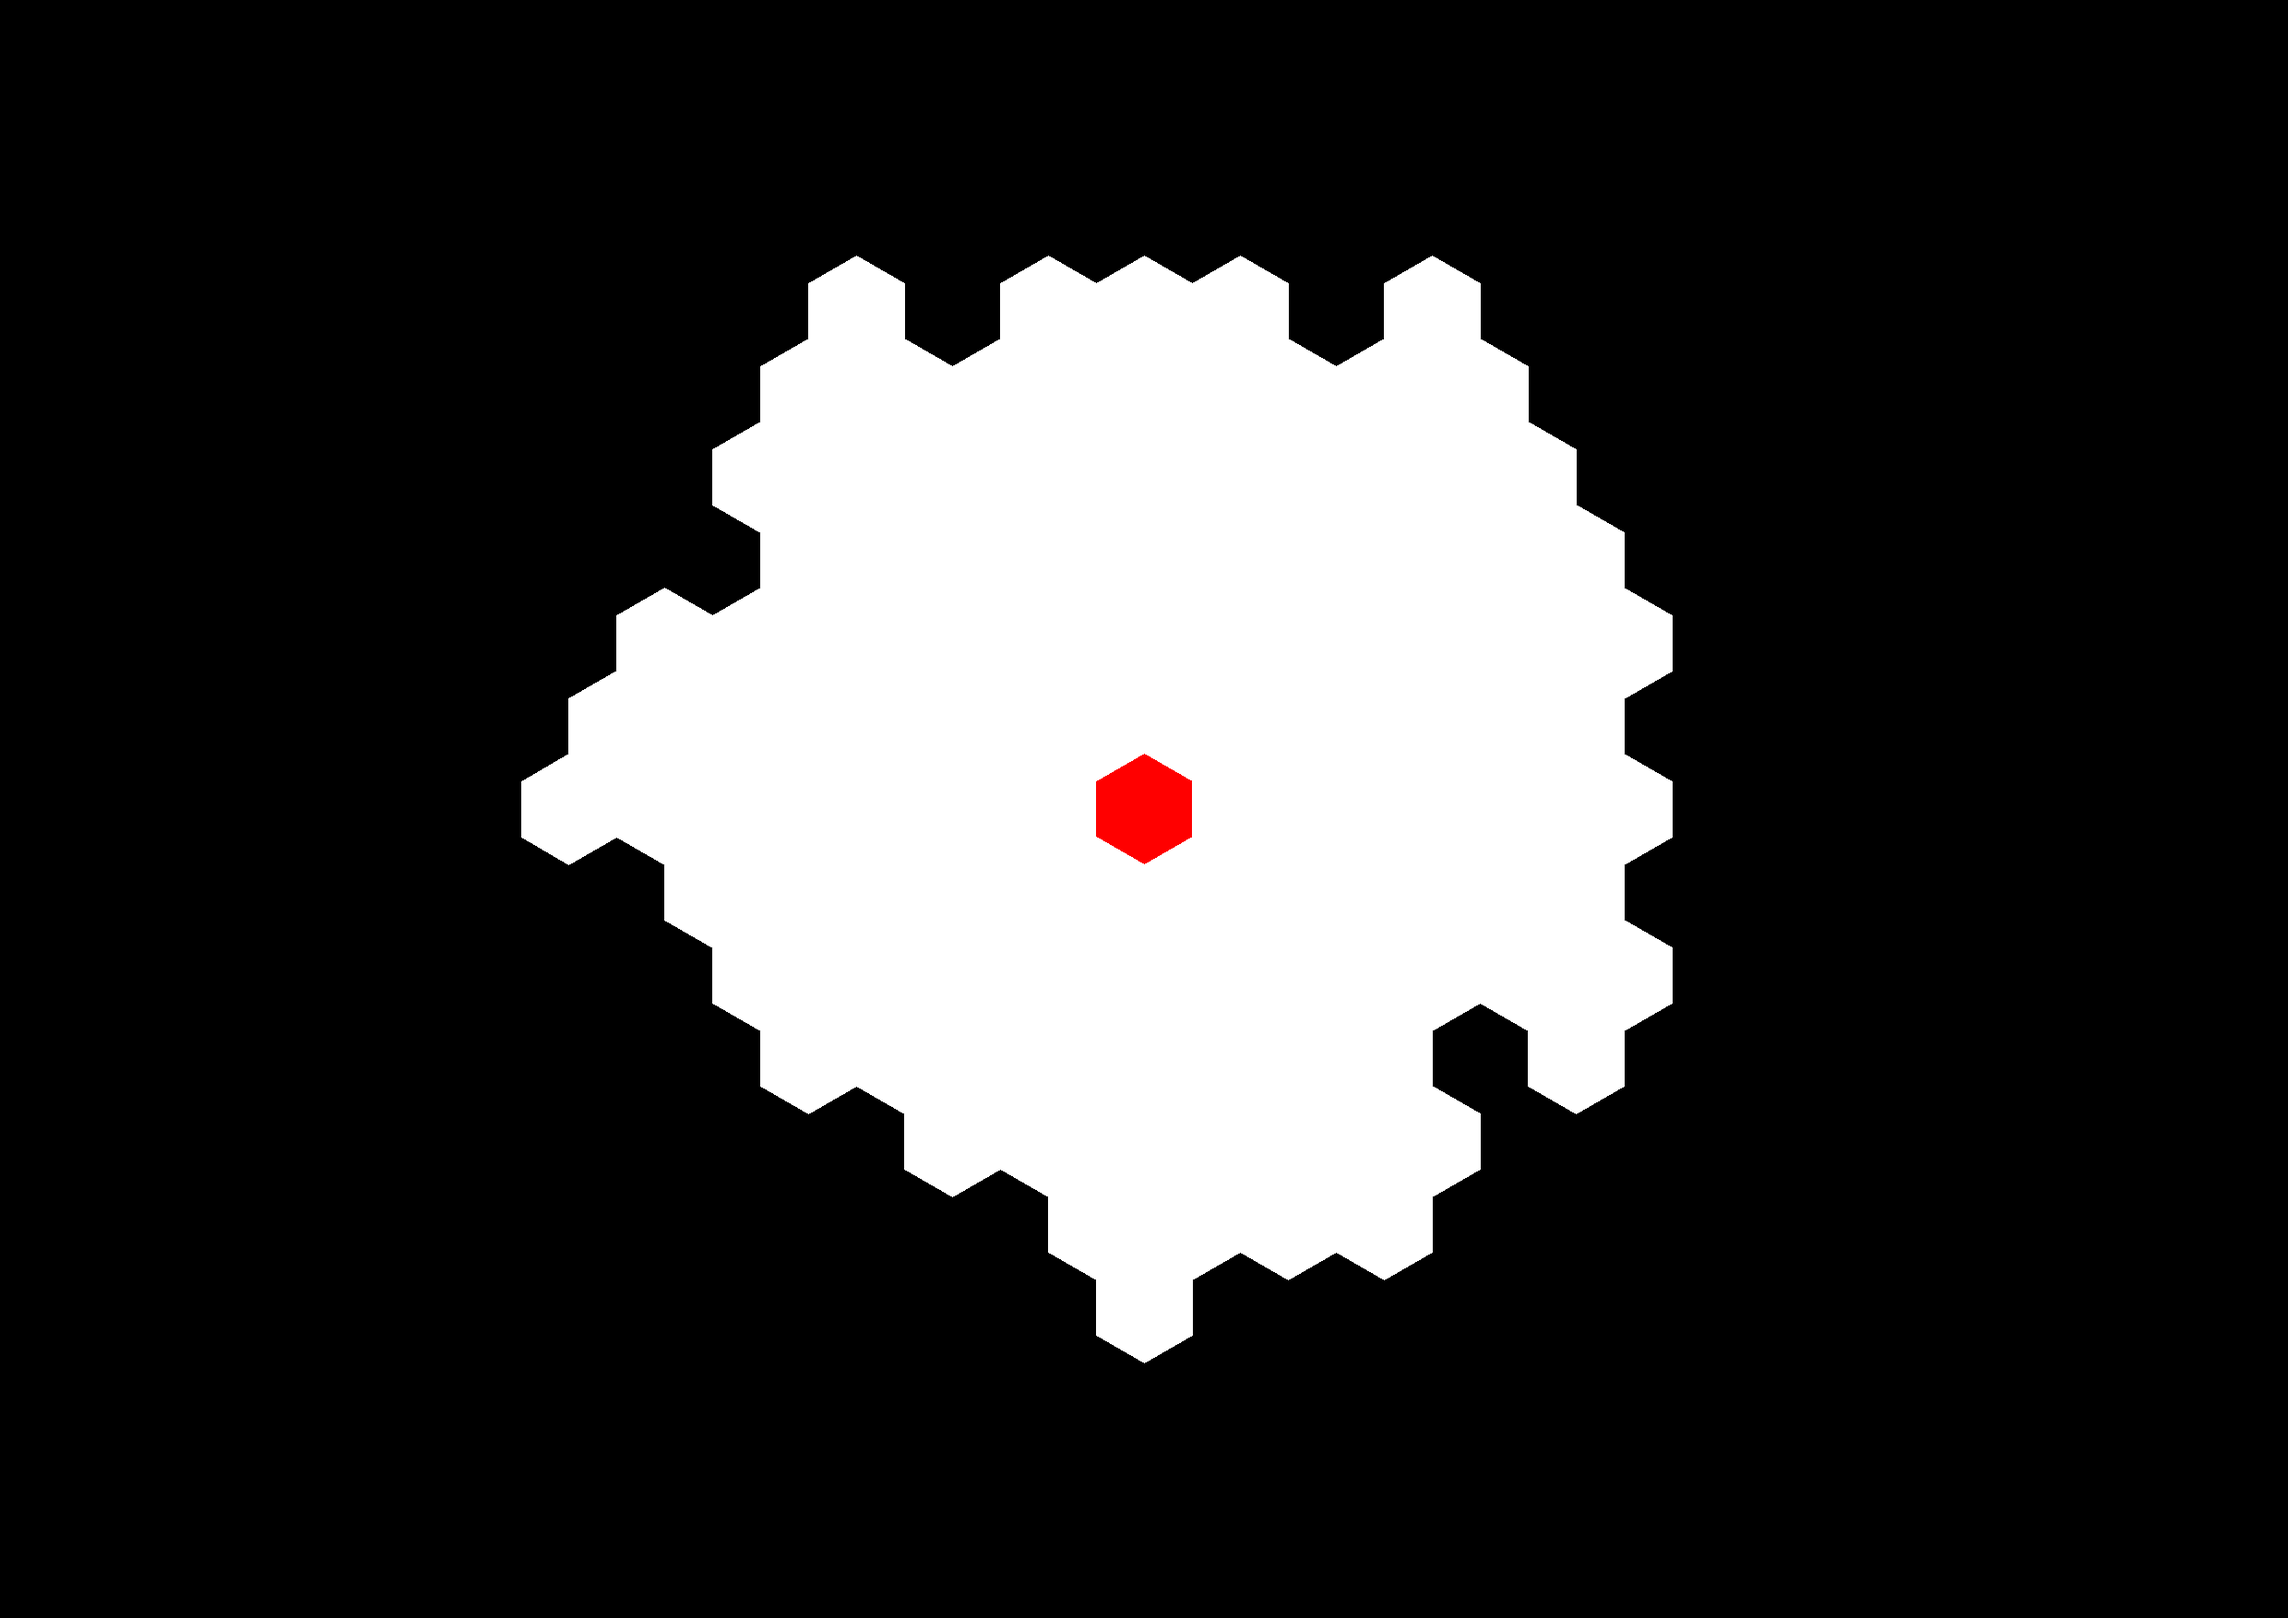
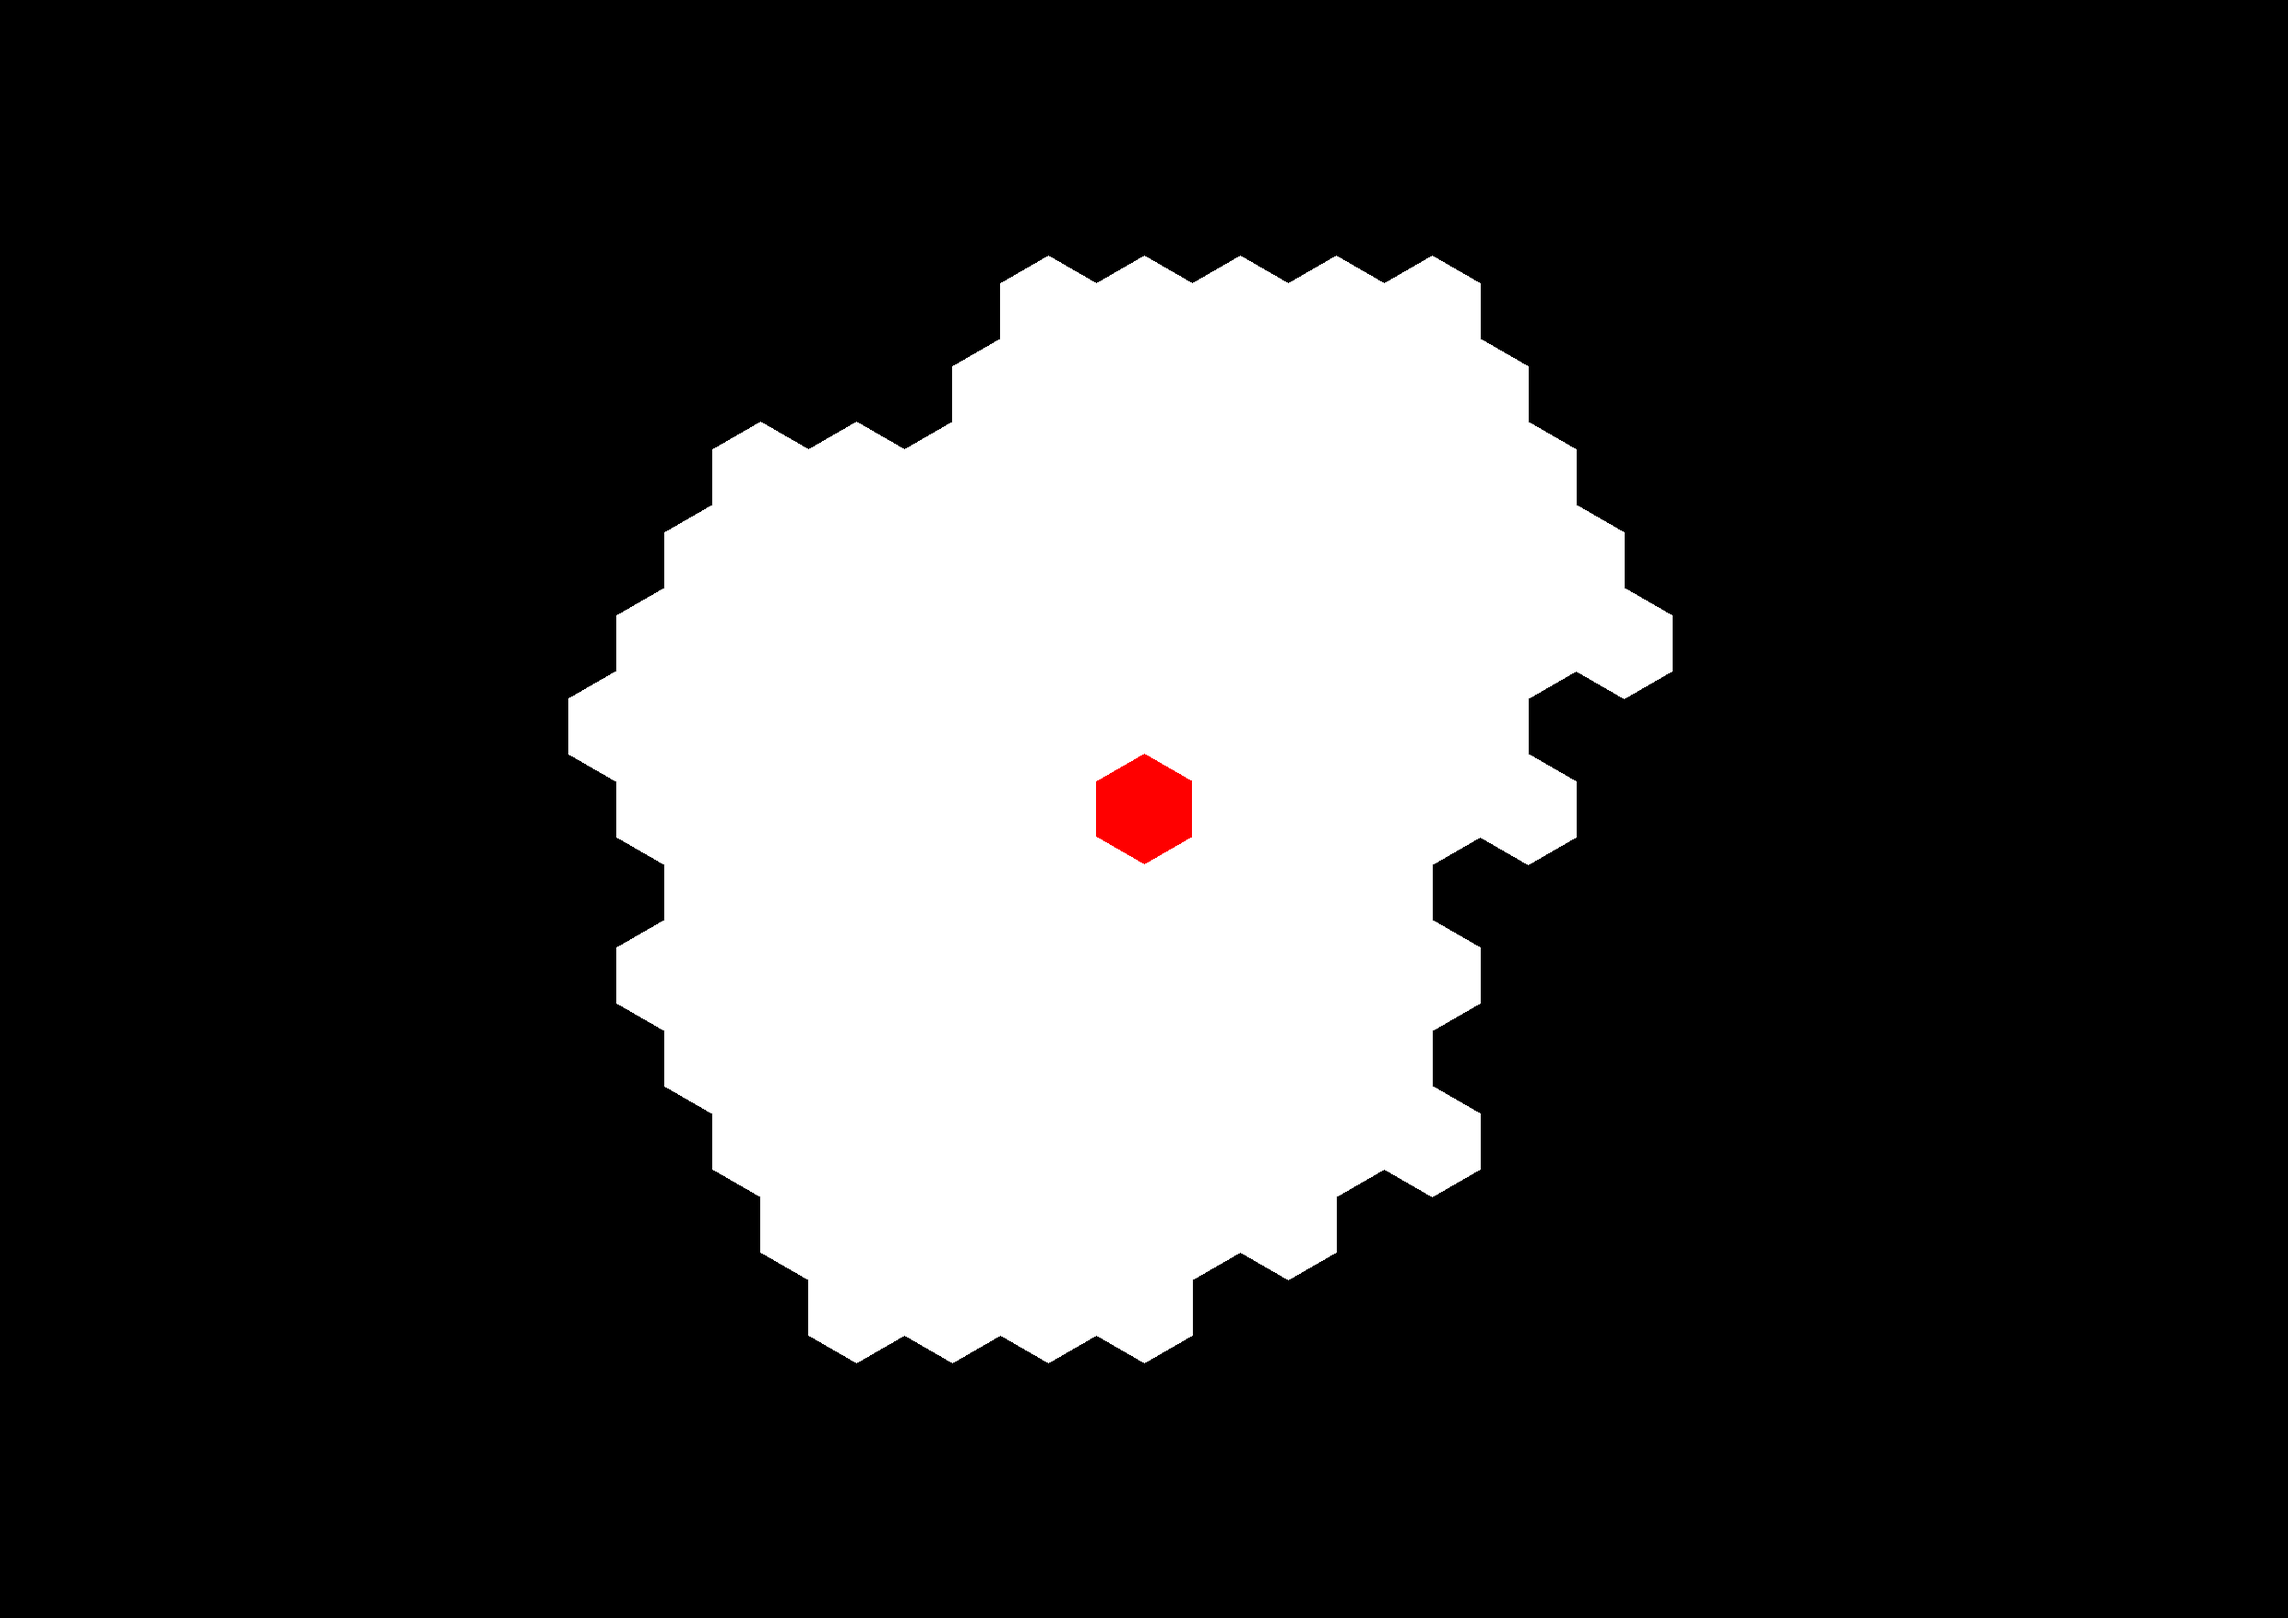
artifacts have correct tile types

diff --git a/src/hexmap.rs b/src/hexmap.rs
@@ -266,10 +266,12 @@ pub struct TileMap_templates {
 impl TileMap_templates {
 
     pub fn new<R: Rng>(rng: &mut R, shape: &TileMap_shape, props: &TileMap_props) -> Result<Self> {
+        assert_eq!(shape.size, props.size, "Both sub-mapes must be same size");
+
         let mut tiles = Self::prepare_random_tiles(rng, shape.size);
         // println!("{}", from.iter().filter(|(_, a)| **a).count());
 
-        let out = Self { map: HexagonalMap::new(
+        let mut out = Self { map: HexagonalMap::new(
             Hex::ZERO, 
             match_size!(shape.size, HEXMAP_RADIUS_BIG, HEXMAP_RADIUS_SMALL), 
             |h| if shape[h] {
@@ -279,6 +281,9 @@ impl TileMap_templates {
                 None
             }
         ), size: shape.size };
+        drop(tiles); // we no longer need that iterator, but we do need rng from it
+
+        out.fix_tiles_on_artifacts(rng, props)?;
         Ok(out)
     }
 
@@ -291,6 +296,76 @@ impl TileMap_templates {
     #[must_use]
     pub fn size_u32(&self) -> u32 {
         self.size as u32
+    }
+
+    fn fix_tiles_on_artifacts<R: Rng>(&mut self, rng: &mut R, props: &TileMap_props) -> Result<()>{
+        
+        fn needs_a_switch(template: Option<TileTemplate>, prop: PropOption) -> bool {
+            if matches!(prop, PropOption::Some(Prop::Village(_))) {
+                return false;
+            }
+
+            if template.is_some() && prop.has_prop() {
+                let template = template.unwrap();
+                let prop = prop.unwrap().unwrap();
+                if prop.get_template() != template {
+                    // println!("replace {prop:?} {template}");
+                    return true;
+                }
+                else {
+                    // println!("don't replace {prop:?} {template}");
+                    return false;
+                }
+            }
+            else if !prop.has_prop() {
+                return false;
+            }
+            else {
+                panic!("prop on empty tile, {prop:?}")
+            }
+        }
+
+        fn first_tile_of_template(template_map: &TileMap_templates, tiles: &mut Vec<Hex>, template: TileTemplate) -> Result<Hex> {
+            for (i, hex) in tiles.iter().enumerate() {
+                if template_map[*hex].is_some() && template_map[*hex].unwrap() == template {
+                    let hex = *hex;
+                    tiles.remove(i);
+                    return Ok(hex);
+                }
+            }
+            Err(format!("did not find template {template:?}"))
+        }
+
+        let mut tiles_no_artifacts: Vec<Hex> = props
+        .iter()
+        .filter_map(|(h, p)| 
+            if let PropOption::NotAllowed = p {
+                Some(h)
+            } 
+            else {
+                None
+            }
+        )
+        .collect();
+        let mut free_tiles = Vec::new(); // tiles we got from removing tiles under artifacts
+        let mut removed_tiles = Vec::new(); // tiles from where we removed tiles
+
+        for ((hex, template), (_, prop)) in Iterator::zip(self.clone().iter(), props.iter()) {
+            if needs_a_switch(*template, *prop) {
+                let target_template = prop.unwrap().unwrap().get_template(); // what prop wants
+                let removed_hex = first_tile_of_template(&self, &mut tiles_no_artifacts, target_template)?;
+                self[hex] = Some(target_template);
+                free_tiles.push(template.unwrap());
+                removed_tiles.push(removed_hex);
+            }
+        };
+
+        free_tiles.shuffle(rng);
+        for hex in removed_tiles {
+            self[hex] = free_tiles.pop();
+        }
+
+        Ok(())
     }
 
     fn prepare_random_tiles<R: Rng>(rng: &mut R, map_size: MapSize) -> impl Iterator<Item = TileTemplate> {

diff --git a/src/tiles.rs b/src/tiles.rs
@@ -1,3 +1,5 @@
+use std::fmt::Display;
+
 use image::Rgb;
 
 #[derive(PartialEq, Eq, Clone, Copy, Debug)]
@@ -56,6 +58,8 @@ impl PropOption {
 
 #[derive(PartialEq, Eq, Clone, Copy, Debug)]
 pub struct TileTemplate {
+    name: &'static str,
+
     color: Rgb<u8>,
     amount_small: usize,
     amount_big: usize,
@@ -94,6 +98,19 @@ impl TileTemplate {
     pub const fn secondary_art(&self) -> Option<Prop> {
         self.secondary_art
     }
+
+    #[inline(always)]
+    #[must_use]
+    pub const fn name(&self) -> &'static str {
+        self.name
+    }
+}
+
+impl Display for TileTemplate {
+    
+    fn fmt(&self, f: &mut std::fmt::Formatter<'_>) -> std::fmt::Result {
+        write!(f, "{}", self.name)
+    }
 }
 
 #[derive(PartialEq, Eq, Clone, Copy, Debug)]
@@ -120,9 +137,21 @@ pub enum Prop {
     WeirdMonkey,
     Dragon
 }
+impl Prop {
+    
+    pub fn get_template(self) -> TileTemplate {
+        for tempalte in TEMPLATES {
+            if tempalte.primary_art == self || tempalte.secondary_art == Some(self) {
+                return tempalte;
+            }
+        }
+        panic!("did not find template for prop {self:?}")
+    }
+}
 
+const TEMPLATES: [TileTemplate; 4] = [SAND, FOREST, MOUNTAIN, WATER];
 
-pub const SAND:     TileTemplate = TileTemplate { color: Rgb([203, 189, 147]), amount_small: 24, amount_big: 34, primary_art: Prop::Monolith   , secondary_art: None             };
-pub const FOREST:   TileTemplate = TileTemplate { color: Rgb([46 , 111, 64 ]), amount_small: 20, amount_big: 29, primary_art: Prop::Bird       , secondary_art: Some(Prop::Book) };
-pub const MOUNTAIN: TileTemplate = TileTemplate { color: Rgb([140, 140, 140]), amount_small: 16, amount_big: 24, primary_art: Prop::WeirdMonkey, secondary_art: None             };
-pub const WATER:    TileTemplate = TileTemplate { color: Rgb([46 , 108, 216]), amount_small: 13, amount_big: 17, primary_art: Prop::Dragon     , secondary_art: None             };
+pub const SAND:     TileTemplate = TileTemplate { name: "SAND"    , color: Rgb([203, 189, 147]), amount_small: 24, amount_big: 34, primary_art: Prop::Monolith   , secondary_art: None             };
+pub const FOREST:   TileTemplate = TileTemplate { name: "FOREST"  , color: Rgb([46 , 111, 64 ]), amount_small: 20, amount_big: 29, primary_art: Prop::Bird       , secondary_art: Some(Prop::Book) };
+pub const MOUNTAIN: TileTemplate = TileTemplate { name: "MOUNTAIN", color: Rgb([140, 140, 140]), amount_small: 16, amount_big: 24, primary_art: Prop::WeirdMonkey, secondary_art: None             };
+pub const WATER:    TileTemplate = TileTemplate { name: "WATER"   , color: Rgb([46 , 108, 216]), amount_small: 13, amount_big: 17, primary_art: Prop::Dragon     , secondary_art: None             };
